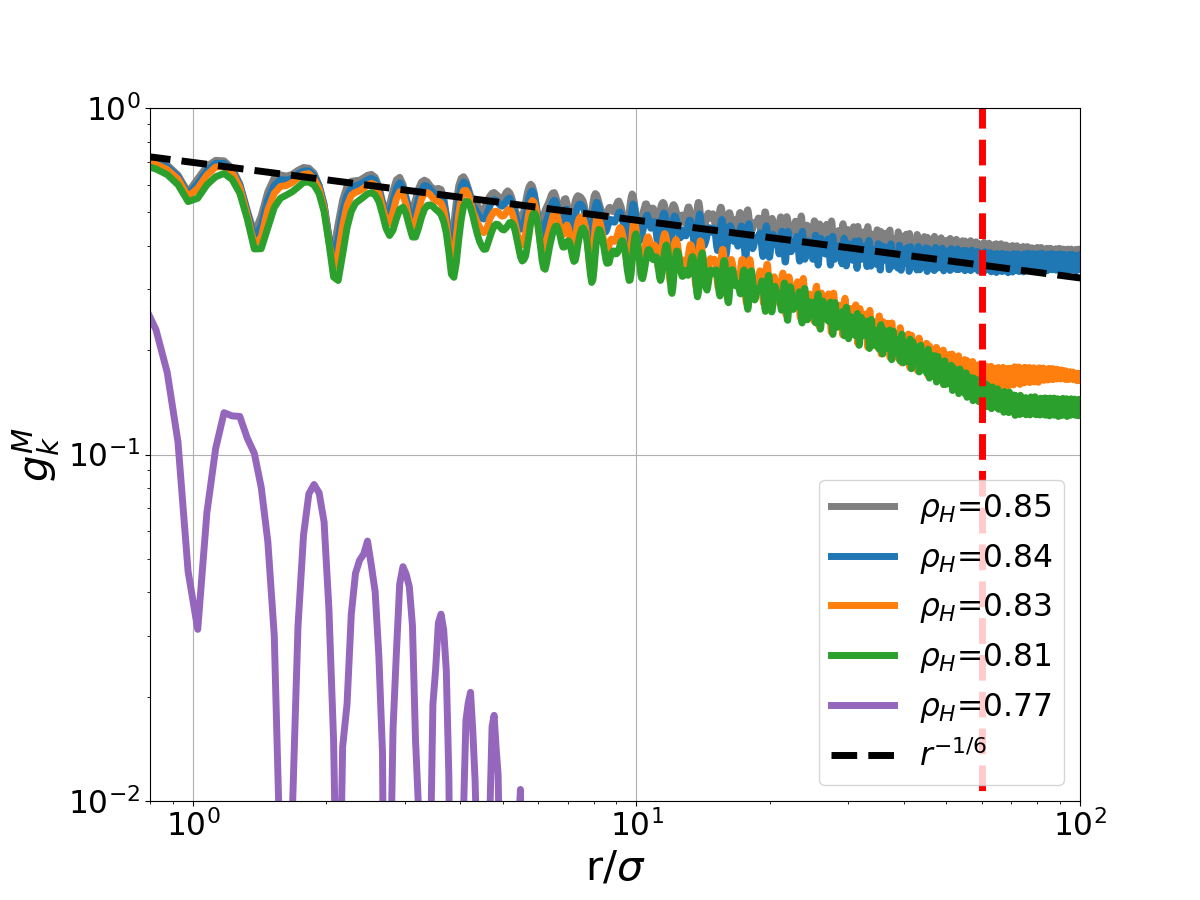
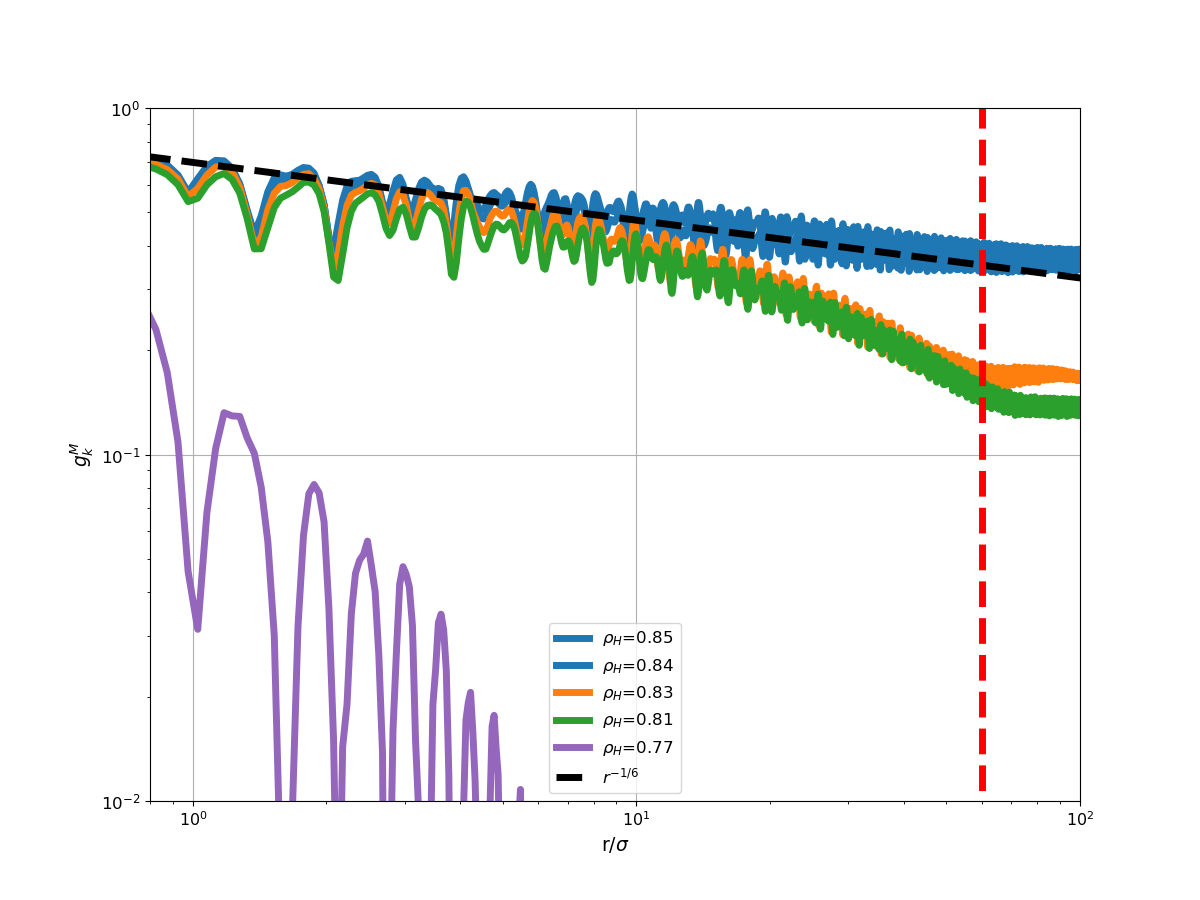
Organized paths in a more general way. Added Magnetic strutcture plotting to description of main paper as it is part of it now. Corrected rhos and color scheme for correlation plot. Current version is best fit for graphs in the version submitted to prl

diff --git a/create_all_graphs.py b/create_all_graphs.py
@@ -3,7 +3,7 @@ import numpy as np
 import os, re
 from sys import path as syspath
 
-syspath.append('C:\\Users\\Daniel Abutbul\\OneDrive - Technion\\OOP_hard_sphere_event_chain')
+syspath.append('..\\OOP_hard_sphere_event_chain')
 from post_process import Ising, Graph, PsiMN
 from SnapShot import WriteOrLoad
 from mpl_toolkits import mplot3d
@@ -12,14 +12,14 @@ from sklearn.metrics import pairwise_distances
 from sklearn.neighbors import kneighbors_graph
 from sklearn.cluster import *
 
-sims_dir = 'C:\\Users\\Daniel Abutbul\\OneDrive - Technion\\post_process\\from_ATLAS3.0'
+sims_dir = '..\\from_ATLAS'
 default_plt_kwargs = {'linewidth': 5, 'markersize': 10}
 size = 30
 params = {'legend.fontsize': size * 0.75, 'figure.figsize': (10, 10), 'axes.labelsize': size, 'axes.titlesize': size,
           'xtick.labelsize': size * 0.75, 'ytick.labelsize': size * 0.75}
 plt.rcParams.update(params)
 colors_rho = {0.84: 'C0', 0.83: 'C1', 0.81: 'C2', 0.8: 'C9', 0.78: 'C3', 0.77: 'C4', 0.785: 'C5', 0.775: 'C6',
-              0.75: 'C7', 0.79: 'C8', 0.71: 'C9', 0.85: 'C0', 0.82: 'yellow'}
+              0.75: 'C7', 0.79: 'C8', 0.71: 'C9', 0.85: 'gray', 0.82: 'yellow'}
 direction_colors = {(1, 1): 'b', (1, -1): 'm', (-1, 1): 'g', (-1, -1): 'r', (0, 0): 'gray'}
 
 
@@ -1146,8 +1146,7 @@ if __name__ == "__main__":
     realization = 94363239
 
     """ Fig. 2 - correlations """
-    plot_pos_and_orientation([0.85, 0.84, 0.83, rhoH_tetratic], [rhoH_tetratic, 0.78, 0.77])
-    # 0.85? Shows such a slow algebraic decay it looks like long range order!
+    plot_pos_and_orientation([0.85, 0.84, 0.83, 0.82, rhoH_tetratic], [rhoH_tetratic, 0.8, 0.79, 0.78, 0.77])
 
     """ Fig. 3 - Plot global burger field before and after cleaning """
     x_lim_zoom_in, y_lim_zoom_in = [120, 147], [30, 46]
@@ -1158,8 +1157,12 @@ if __name__ == "__main__":
     quiver_burger(rhoH_tetratic, x_lim_zoom_in, y_lim_zoom_in, bonds=False, plot_centers=False, frustrated_bonds=False,
                   realization=realization, quiv_surfix='_paired-4_clustered-D=10', new_fig=False)
 
-    """ Fig 5 """
+    """ Fig 4 and Fig 5 Magnetic Structure"""
+    plot_color_bargg_peaks([0.75, 0.78, rhoH_tetratic, 0.85], bragg_type="Bragg_Sm")
+
+    """ Fig 5 Ising part"""
     plot_ising(plot_heat_capcity=False)
+
 
     """
     Supplement - Figs. 2,4-11,14-19. The rest of the codes need some adaption in order to recreate the graphs.
@@ -1191,7 +1194,7 @@ if __name__ == "__main__":
         coarse_grain_burgers(rho, realization=real, plot_for_paper=True, **coarse_grain_kwargs)
     coarse_grain_null_model(ref_rhoH=rhoH_tetratic, ref_real=realization, distance_threshold=10)
 
-
+    # """Used for extra test we performed later, graphs does not exist in paper or supplemental:"""
     # gradients_around_optimal_k([0.75, 0.78, 0.81, 0.85])
     # plot_psi_convergence([0.75, 0.85, 0.78, 0.81], orientation=True)
 
